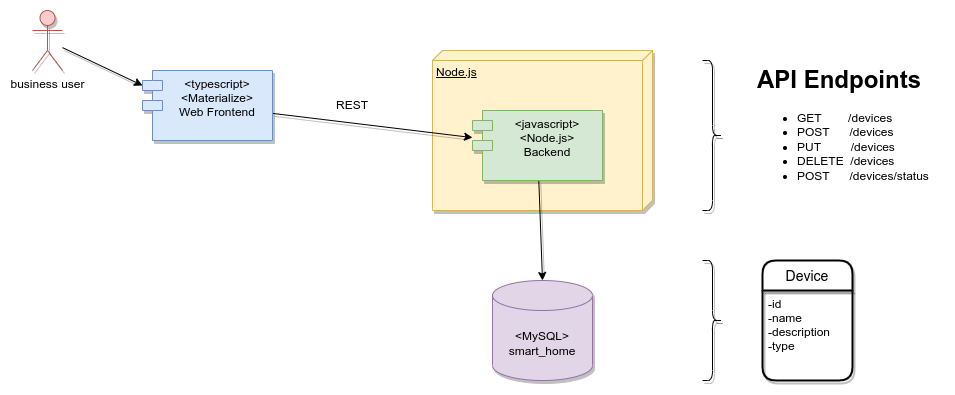
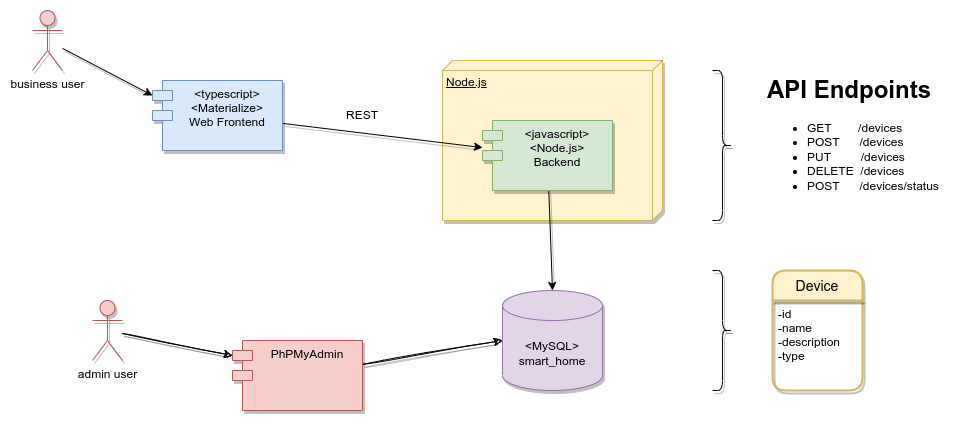
documentacion

diff --git a/README.md b/README.md
@@ -1,76 +1,74 @@
 <a href="https://www.gotoiot.com/">
-    <img src="doc/gotoiot-logo.png" alt="logo" title="Goto IoT" align="right" width="60" height="60" />
+   <img src="doc/gotoiot-logo.png" alt="logo" title="Goto IoT" align="right" width="60" height="60" />
 </a>
 
-UBA - Especializacion en Internet de las Cosas 
-Trabajo practico integrador 
+
+UBA - Especializacion en Internet de las Cosas
+Trabajo practico integrador
 ==============================================
 
+
 El presente trabajo practico es un fork del [repositorio](https://github.com/mramos88/app-fullstack-base-2023-i08) y se basa en el proyecto[Goto IoT](https://www.gotoiot.com/)(repo [Github de Goto IoT:](https://github.com/gotoiot)).
-
-### Funcionalidades provistas 
-
-* Eliminacion de dispositivos
-* Agregado de nuevos dispositivos
-* Edicion de dispositivos existentes
-* Actualizacion del status del dispositivo
-
-### API Endpoints
-
-* GET /devices - Listar dispositivos: No toma parametros y devuelve una lista de los dispositivos
-* POST /devices - Crear dispositivo: Toma como parametro un objeto 
-* PUT /devices - Actualizar dispositivo: Toma como parametro un objeto con los atributos del dispositivo y los actualiza en la base de datos
-* DELETE /devices - Eliminar dispositivo: Toma como parametro el id de un dispositivo y lo elimina de la base de datos
-* PUT /devices/status - Actualizar status del dispositivo: Toma como parametro el status y el Id del dispositivo para actualizarlo en la base de datos.
-
-### Setup y ejecucion del proyecto
-
-Para correr este proyecto es necesario que instales `Docker` y `Docker Compose`. En [este artículo](https://www.gotoiot.com/pages/articles/docker_installation_linux/) están los detalles para instalar Docker y Docker Compose en una máquina Linux.
-
-Una vez instalado Docker y Docker Compose, se clona el proyecto. Para ejecutar la aplicación tenes que correr el comando `docker-compose up` desde la raíz del proyecto. Este comando va a descargar las imágenes de Docker de node, de typescript, de la base datos y del admin de la DB, y luego ponerlas en funcionamiento. 
-
-Para acceder al cliente web ingresa a a la URL [http://localhost:8000/](http://localhost:8000/) y para acceder al admin de la DB accedé a [localhost:8001/](http://localhost:8001/). 
-
-En el login del administrador, el usuario para acceder a la db es `root` y contraseña es la variable `MYSQL_ROOT_PASSWORD` del archivo `docker-compose.yml`.
-
-### Estructura de la DB
-
-Al iniciar el servicio de la base de datos, si esta no está creada toma el archivo que se encuentra en `db/dumps/smart_home.sql` para crear la base de datos automáticamente. En ese archivo está la configuración de la tabla `Devices` y otras configuraciones más. 
 
 
 ### Arquitectura de la aplicación
 
-Como ya pudiste ver, la aplicación se ejecuta sobre el ecosistema Docker, y en esta imagen podés ver el diagrama de arquitectura.
+
+A continuación se puede apreciar una imagen de la arquitectura de la aplicación.
+
 
 ![architecture](doc/DesarrolloDeAplicacionesWebIoT.png)
 
-#### El cliente web
 
-El cliente web es una Single Page Application que se comunica con el servicio en NodeJS mediante JSON a través de requests HTTP. Puede consultar el estado de dispositivos en la base de datos (por medio del servicio en NodeJS) y también cambiar el estado de los mismos. Los estilos del código están basados en **Material Design**.
+* El Frontend web: El cliente web es una Single Page Application que se comunica con el servicio en NodeJS mediante JSON a través de requests HTTP. Puede consultar el estado de los dispositivos en la base de datos (por medio del servicio en NodeJS) y también cambiar el estado de los mismos. Los estilos del código están basados en **Material Design**.
 
-#### El servicio web
 
-El servicio en **NodeJS** posee distintos endpoints para comunicarse con el cliente web mediante requests HTTP enviando **JSON** en cada transacción. Procesando estos requests es capaz de comunicarse con la base de datos para consultar y controlar el estado de los dispositivos, y devolverle una respuesta al cliente web también en formato JSON. Así mismo el servicio es capaz de servir el código del cliente web.
+* El Backend: El servicio en **NodeJS** posee distintos endpoints para comunicarse con el cliente web mediante requests HTTP enviando **JSON** en cada transacción. Procesando estos requests es capaz de comunicarse con la base de datos para consultar y controlar el estado de los dispositivos, y devolverle una respuesta al cliente web también en formato JSON. Así mismo el servicio es capaz de servir el código del cliente web.
 
-#### La base de datos
 
-La base de datos se comunica con el servicio de NodeJS y permite almacenar el estado de los dispositivos en la tabla **Devices**. Ejecuta un motor **MySQL versión 5.7** y permite que la comunicación con sus clientes pueda realizarse usando usuario y contraseña en texto plano. En versiones posteriores es necesario brindar claves de acceso, por este motivo la versión 5.7 es bastante utilizada para fases de desarrollo.
+* La base de datos: La base de datos se comunica con el servicio de NodeJS y permite almacenar el estado de los dispositivos en la tabla **Devices**. Ejecuta un motor **MySQL versión 5.7** y permite que la comunicación con sus clientes pueda realizarse usando usuario y contraseña en texto plano. En versiones posteriores es necesario brindar claves de acceso, por este motivo la versión 5.7 es bastante utilizada para fases de desarrollo.
 
-#### El administrador de la DB
 
-Para esta aplicación se usa **PHPMyAdmin**, que es un administrador de base de datos web muy utilizado y que podés utilizar en caso que quieras realizar operaciones con la base, como crear tablas, modificar columnas, hacer consultas y otras cosas más.
+* El administrador de la DB:Para esta aplicación se usa **PHPMyAdmin**, que es un administrador de base de datos web muy utilizado y que podés utilizar en caso que quieras realizar operaciones con la base, como crear tablas, modificar columnas, hacer consultas y otras cosas más.
 
-#### El compilador de TypeScript
 
-**TypeScript** es un lenguaje de programación libre y de código abierto desarrollado y mantenido por Microsoft. Es un superconjunto de JavaScript, que esencialmente añade tipos estáticos y objetos basados en clases. Para esta aplicación se usa un compilador de TypeScript basado en una imagen de [Harmish](https://hub.docker.com/r/harmish) en Dockerhub, y está configurado para monitorear en tiempo real los cambios que se realizan sobre el directorio **src/frontend/ts** y automáticamente generar código compilado a JavaScript en el directorio  **src/frontend/js**. Los mensajes del compilador aparecen automáticamente en la terminal al ejecutar el comando **docker-compose up**.
+### Funcionalidades provistas
 
-### Ejecución de servicios
 
-Los servicios de la aplicación se ejecutan sobre **contenedores de Docker**, así se pueden desplegar de igual manera en diferentes plataformas. Los detalles sobre cómo funcionan los servicios los podés ver directamente en el archivo **docker-compose.yml**.
+* Listado de dispositivos
+* Eliminación de dispositivos
+* Agregado de nuevos dispositivos
+* Edición de dispositivos existentes
+* Actualización del status del dispositivo
+
+
+### API Endpoints
+
+
+* GET /devices - Listar dispositivos: No toma parámetros y devuelve una lista de los dispositivos
+* POST /devices - Crear dispositivo: Toma como parámetro un objeto
+* PUT /devices - Actualizar dispositivo: Toma como parámetro un objeto con los atributos del dispositivo y los actualiza en la base de datos
+* DELETE /devices - Eliminar dispositivo: Toma como parámetro el id de un dispositivo y lo elimina de la base de datos
+* PUT /devices/status - Actualizar status del dispositivo: Toma como parámetro el status y el Id del dispositivo para actualizarlo en la base de datos.
+
+
+### Setup y ejecución del proyecto
+
+
+Para correr este proyecto es necesario que instales `Docker` y `Docker Compose`. En [este artículo](https://www.gotoiot.com/pages/articles/docker_installation_linux/) están los detalles para instalar Docker y Docker Compose en una máquina Linux.
+
+
+Una vez instalado Docker y Docker Compose, se clona el proyecto. Para ejecutar la aplicación tenes que correr el comando `docker-compose up` desde la raíz del proyecto. Este comando va a descargar las imágenes de Docker de node, de typescript, de la base datos y del admin de la DB, y luego ponerlas en funcionamiento. Para acceder al cliente web ingresa a a la URL [http://localhost:8000/](http://localhost:8000/) y para acceder al admin de la DB accedé a [localhost:8001/](http://localhost:8001/). En el login del administrador, el usuario para acceder a la db es `root` y la contraseña es la variable `MYSQL_ROOT_PASSWORD` del archivo `docker-compose.yml`.
+
+
+Al iniciar el servicio de la base de datos, si esta no está creada toma el archivo que se encuentra en `db/dumps/smart_home.sql` para crear la base de datos automáticamente. En ese archivo está la configuración de la tabla `Devices` y otras configuraciones más.
+
 
 ## Tecnologías utilizadas 🛠
 
-En esta sección podés ver las tecnologías más importantes utilizadas.
+
+Las tecnologías utilizadas son las siguientes:
+
 
 * [Docker](https://www.docker.com/) - Ecosistema que permite la ejecución de contenedores de software.
 * [Docker Compose](https://docs.docker.com/compose/) - Herramienta que permite administrar múltiples contenedores de Docker.
@@ -79,4 +77,10 @@ En esta sección podés ver las tecnologías más importantes utilizadas.
 * [PHPMyAdmin](https://www.phpmyadmin.net/) - Administrador web de base de datos.
 * [Material Design](https://material.io/design) - Bibliotecas de estilo responsive para aplicaciones web.
 * [TypeScript](https://www.typescriptlang.org/) - Superset de JavaScript tipado y con clases.
+
+
+
+
+
+
 
